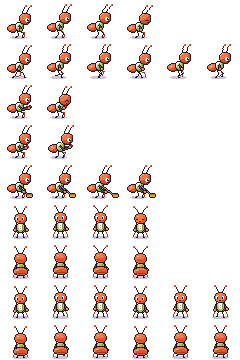
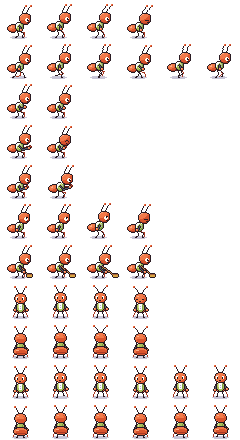
feat(villagers): give the square's villagers midday and dusk routines
- Midday: the Baker and Mia gossip at the vegetable stall, Sam reads
  the notice board, and Pip takes his "break" running back and forth
  across the east's playground.
- Dusk: the Baker sweeps outside the bakery, Sam locks up the hall
  with his back to the square, and Mia and Pip chat outside their
  home before going in.
- Stop.Run lets a round run to its next stop; Person.Away and
  Ant.FaceAway turn a villager's back to the camera.
- Villagers without a round return to their activity through one
  Hold(), on load and after a talk.
- Every villager has a talk pose; Sam gets look, the Baker sweep and
  Pip run.

diff --git a/game/ArtSource/chars.js b/game/ArtSource/chars.js
@@ -379,7 +379,7 @@
   const HAS = {};
   for (const id of IDS) {
     const s = ['idle', 'walk'];
-    if (!CAST[id].villager) s.push('talk');
+    s.push('talk');
     if (['nora', 'mia', 'grandkid', 'theo', 'leo', 'sam', 'mother', 'marlow', 'courier', 'helen'].includes(id)) s.push('receive');
     if (['nora', 'mia', 'grandkid', 'theo', 'leo', 'sam', 'mother', 'marlow', 'courier'].includes(id)) s.push('give');
     if (id === 'courier') s.push('carry', 'carryWalk', 'inspect', 'wave', 'sit', 'moved', 'run');
@@ -387,10 +387,11 @@
     if (id === 'marlow') s.push('wave');
     if (id === 'leo') s.push('run');
     if (id === 'mender') s.push('hammer');
-    if (id === 'bram') s.push('look');
+    if (id === 'bram' || id === 'sam') s.push('look');
     if (CAST[id].load) s.push('carry', 'carryWalk', 'lift');
     if (CAST[id].polish) s.push('polish');
-    if (id === 'sam') s.push('sweep');
+    if (id === 'sam' || id === 'baker') s.push('sweep');
+    if (id === 'pip') s.push('run');
     if (TURN[id]) s.push(...TURNS.filter(p => s.includes(p)).flatMap(p => VIEWS.map(v => `${p}_${v}`)));
     HAS[id] = s;
   }

diff --git a/game/Assets/Scripts/Core/Places.cs b/game/Assets/Scripts/Core/Places.cs
@@ -115,6 +115,9 @@ namespace Shop
                     // Morning: the Baker carries trays of loaves down from the bakery to the bread stall, Mia carries
                     // crates from home to set out her vegetable stall, Pip runs letters from the shut post office's
                     // steps to the neighbours' doors, and Sam sweeps outside the hall's door.
+                    // Midday: the Baker trades gossip at Mia's stall, Sam reads the notice board (Pip is at the east's
+                    // playground). Dusk: the Baker sweeps before the bakery, Mia and Pip are at their door before
+                    // dark, and Sam locks the hall.
                     new Person
                     {
                         Id = "baker", Label = "Baker", Spot = V(0, 12), Phases = new[] { Phase.Morning },
@@ -152,6 +155,41 @@ namespace Shop
                         Id = "sam", At = V(614, 404), Label = "Sam", Spot = V(-18, -4), Pose = "sweep", Facing = 1, Phases = new[] { Phase.Morning },
                         Line = "Steps first, then the ledgers. Everything in its order, or nothing can ever be found again.",
                     },
+                    new Person
+                    {
+                        Id = "baker", At = V(588, 570), Label = "Baker", Spot = V(10, 14), Pose = "talk", Facing = -1, Phases = new[] { Phase.Midday },
+                        Line = "Mia's carrots, my rolls, and a bit of news for both. That's a fair trade in Bellwood.",
+                    },
+                    new Person
+                    {
+                        Id = "mia", At = V(562, 568), Label = "Mia", Spot = V(-6, 16), Pose = "talk", Facing = 1, Phases = new[] { Phase.Midday },
+                        Line = "Two cabbages for one of his rolls. He thinks he's winning. He isn't.",
+                    },
+                    new Person
+                    {
+                        Id = "sam", At = V(838, 572), Label = "Sam", Spot = V(-18, 4), Pose = "look", Facing = 1, Phases = new[] { Phase.Midday },
+                        Line = "Three notices pinned out of line. I've written to the hall about it. I am the hall, but procedure is procedure.",
+                    },
+                    new Person
+                    {
+                        Id = "baker", At = V(470, 404), Label = "Baker", Spot = V(18, -4), Pose = "sweep", Facing = -1, Phases = new[] { Phase.Dusk },
+                        Line = "Last crumbs swept, last loaf sold. Tomorrow the oven's lit before the birds are up.",
+                    },
+                    new Person
+                    {
+                        Id = "mia", At = V(1000, 630), Label = "Mia", Spot = V(-18, 8), Facing = 1, Phases = new[] { Phase.Dusk },
+                        Line = "Home before dark, that's our rule. Pip knows why.",
+                    },
+                    new Person
+                    {
+                        Id = "pip", At = V(1018, 632), Label = "Pip", Spot = V(18, 8), Facing = -1, Phases = new[] { Phase.Dusk },
+                        Line = "Mum says we go in before the sky goes grey. I don't mind. Much.",
+                    },
+                    new Person
+                    {
+                        Id = "sam", At = V(648, 402), Label = "Sam", Spot = V(-22, 2), Away = true, Phases = new[] { Phase.Dusk },
+                        Line = "Doors locked, lamps out, ledgers shelved. A day properly closed.",
+                    },
                 },
                 Hotspots = new[]
                 {
@@ -164,6 +202,20 @@ namespace Shop
             {
                 Id = "east",
                 Variants = new[] { "day" },
+                People = new[]
+                {
+                    // Midday: Pip on his break at the playground, dashing between the slide and the swing.
+                    new Person
+                    {
+                        Id = "pip", Label = "Pip", Spot = V(0, 12), Phases = new[] { Phase.Midday },
+                        Round = new[]
+                        {
+                            new Stop { At = V(360, 628), Facing = 1, Wait = 3f, Run = true },
+                            new Stop { At = V(474, 622), Facing = -1, Wait = 4f, Run = true },
+                        },
+                        Line = "I'm not playing, I'm on my break! Couriers get breaks, don't they?",
+                    },
+                },
                 Hotspots = new[] { West("to_square", 470, "To the square", "square/from_east") },
             },
             ["coast"] = new PlaceDef

diff --git a/game/Assets/Scripts/Actors/Villager.cs b/game/Assets/Scripts/Actors/Villager.cs
@@ -22,10 +22,9 @@ namespace Shop
             (v.def, v.ant, v.walk) = (def, ant, walk);
             if (def.Round == null)
             {
-                ant.Pose = def.Pose;
-                ant.Facing = def.Facing;
-                ant.Seat = def.Seat;
                 ant.Feet = def.At;
+                ant.Seat = def.Seat;
+                v.Hold();
                 return;
             }
             ant.Feet = def.Round[0].At;
@@ -47,12 +46,16 @@ namespace Shop
         {
             talking = false;
             if (ant.Pose != listening) return;
-            if (def.Round == null)
-            {
-                ant.Pose = def.Pose;
-                ant.Facing = def.Facing;
-            }
+            if (def.Round == null) Hold();
             else Go();
+        }
+
+        // Keeps their activity where they stand.
+        void Hold()
+        {
+            ant.Pose = def.Pose;
+            ant.Facing = def.Facing;
+            if (def.Away) ant.FaceAway();
         }
 
         void Update()
@@ -67,6 +70,7 @@ namespace Shop
             else if ((wait -= Time.deltaTime) <= 0)
             {
                 ant.Carrying = def.Round[at].Carry;
+                ant.Running = def.Round[at].Run;
                 at = (at + 1) % def.Round.Length;
                 Go();
             }
@@ -88,7 +92,7 @@ namespace Shop
         void Keep()
         {
             var stop = def.Round[at];
-            ant.Carrying = false;
+            ant.Carrying = ant.Running = false;
             ant.Pose = stop.Pose;
             if (stop.Facing != 0) ant.FaceTo(ant.Feet.x + stop.Facing * 8);
             wait = stop.Wait;

diff --git a/game/Assets/Scripts/Core/PlaceDef.cs b/game/Assets/Scripts/Core/PlaceDef.cs
@@ -39,6 +39,8 @@ namespace Shop
         public Rect Area = new(-10, -30, 20, 30);
         public Vector2 Spot = new(24, 0);
         public int Facing = 1;
+        /// <summary>They stand with their back to the camera, at a door, say.</summary>
+        public bool Away;
         /// <summary>What they are doing where they stand (brew, hammer...).</summary>
         public string Pose = "idle";
         /// <summary>How high the seat they sit on is, in art px (a bench's is 9).</summary>
@@ -64,6 +66,8 @@ namespace Shop
         public float Wait = 4f;
         /// <summary>They carry their load on the walk from here to the next stop.</summary>
         public bool Carry;
+        /// <summary>They run on the walk from here to the next stop.</summary>
+        public bool Run;
     }
 
     /// <summary>A place to explore: its art, the people in it, its hotspots and where the courier can arrive.</summary>

diff --git a/game/Assets/Scripts/Actors/Ant.cs b/game/Assets/Scripts/Actors/Ant.cs
@@ -205,6 +205,9 @@ namespace Shop
             }
         }
 
+        /// <summary>Turns its back to the camera.</summary>
+        public void FaceAway() => Turn(Heading.Back);
+
         public void FaceTo(float x)
         {
             heading = Heading.Side;
